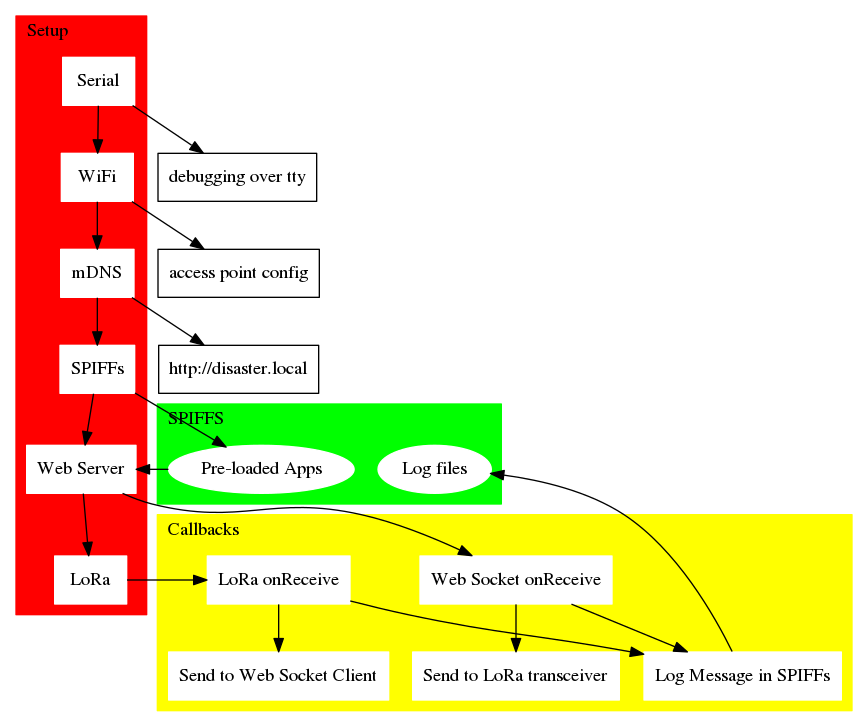
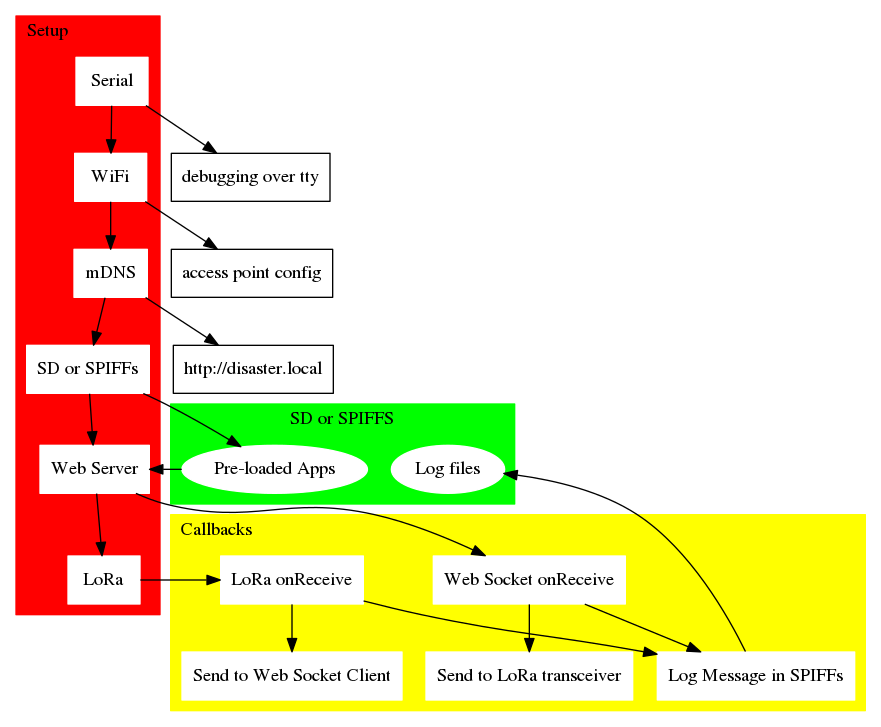
documenting SD card update

diff --git a/README.md b/README.md
@@ -13,16 +13,18 @@ The general layout and flow of hardware, firmware, and software can be seen belo
 
 # Hardware Connections  
 
-NodeMCU/ESP8266 | SX1276   
-----------------|--------
-D1/GPIO5/OUT | RESET
-D2/GPIO4/INT | DIO0   
-D5/GPIO14/SCK | SCK  
-D6/GPIO12/MISO | MISO   
-D7/GPIO13/MOSI | MOSI   
-D8/GPIO15/SS | NSS     
+NodeMCU/ESP8266 | LoRa Transceiver | SD Card |
+----------------|--------|---------|
+D1/GPIO5/OUT | RESET | _NC_ 
+D2/GPIO4/INT | DIO0 | _NC_ 
+D4/GPIO2/CS | _NC_ | SS 
+D5/GPIO14/SCK | SCK | SCK 
+D6/GPIO12/MISO | MISO | MISO  
+D7/GPIO13/MOSI | MOSI | MOSI  
+D8/GPIO15/CS | NSS | _NC_   
   
 DIO0 sends an interrupt from the LoRa chip upon Tx/Rx Ready on the radio. 
+Chip selects can be used to explicitly switch between the LoRa tranceiver and the SD card; however, the SD card should be enabled by default, as the LoRa interrupt appears to handle enabling the tranceiver (note: this still needs to be thoroughly tested, what happens if you receive an interrupt while loading from the SD?).
 
 # Websocket
 
@@ -147,6 +149,8 @@ If building doesn't work then try this first:
 ```
 touch web/static/*
 ```
+
+If using an SD card model, copy the contents of `web/static/` to the root of a fat32 formatted SD card.
 
 # Testing the firmware and web app  
 See [firmware/README.md](https://github.com/sudomesh/disaster-radio/tree/master/firmware)
